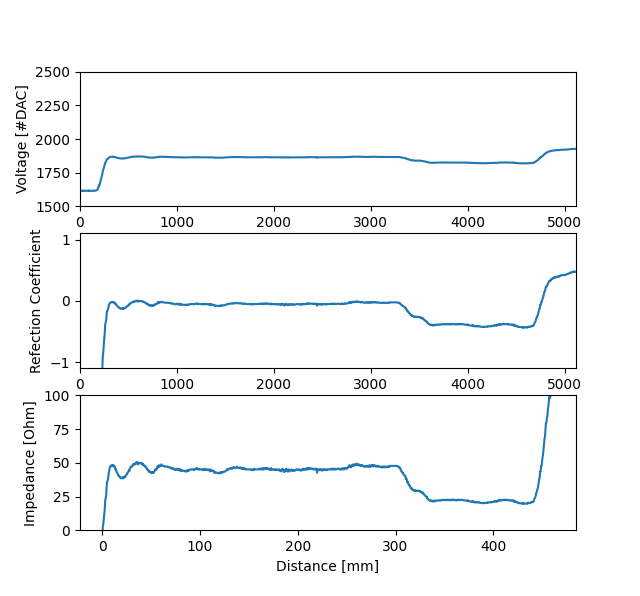
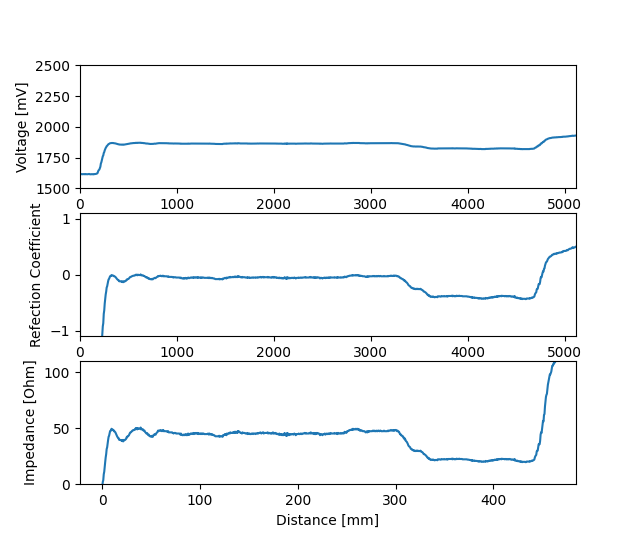
.

diff --git a/code/TDR/tdr_solution.py b/code/TDR/tdr_solution.py
@@ -88,7 +88,7 @@ fig, waveform = plt.subplots(3,1)
 fig.canvas.mpl_connect('close_event', on_close)
 plot1, = waveform[0].plot(time_steps, voltage_data)
 waveform[0].set_xlabel("Time [ps]")
-waveform[0].set_ylabel("Voltage [#DAC]")
+waveform[0].set_ylabel("Voltage [mV]")
 waveform[0].set_xlim(0, max_delay * delay_step)
 waveform[0].set_ylim(1500, 2500)
 plot2, = waveform[1].plot(time_steps, reflection_data)
